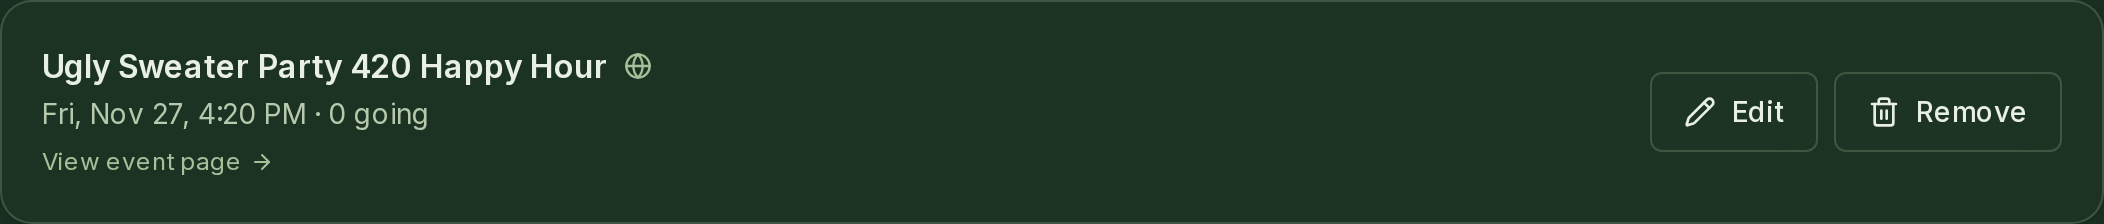
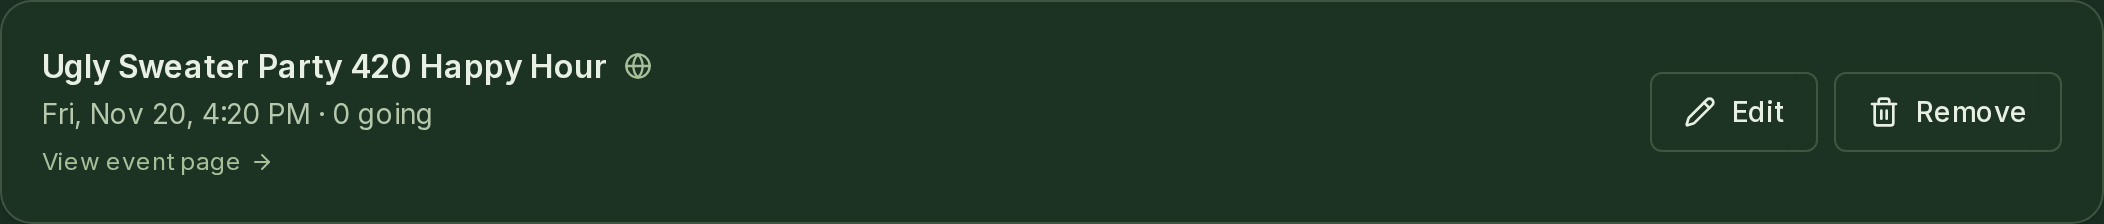
Luma bridge: second review fixes
- A refresh racing the address change can't reopen the Add here form (opened once per draft).
- Disabled members count as already have again: a Luma import must not mail people left out on purpose.
- An explicit empty uris list clears links; an all-refused one keeps them.
- Preview feed keeps tonight's running Happy Hour; shots target the Saturday row; walkthrough paths.

Changed region(s): [[0.0618, 0.4375, 0.2163, 0.5938]]

diff --git a/apps/web/src/app/api/admin/newsletter/import-luma/route.ts b/apps/web/src/app/api/admin/newsletter/import-luma/route.ts
@@ -13,8 +13,8 @@ const MAX_CSV_CHARS = 5_000_000;
  * uploads the export.
  *
  * Skipped: rows Luma marks unsubscribed, guests only invited or declined, invalid emails, repeats in the file,
- * anyone already in the audience (an enabled member, or on the interests list; compileAudience's sources), and
- * anyone who unsubscribed from our newsletter. Without `commit` it's a dry run: the same
+ * anyone already a member (a disabled one too: they were left out of the audience on purpose, and an interests
+ * row would mail them anyway) or on the interests list, and anyone who unsubscribed from our newsletter. Without `commit` it's a dry run: the same
  * counts, nothing written. With it, the counts are worked out again from the lists as they are now, then the
  * new rows are inserted.
  *   → { rows, add, alreadyHave, unsubscribedHere, unsubscribedOnLuma, notRegistered, invalid, duplicate, imported? }
@@ -38,7 +38,7 @@ export async function POST(req: Request) {
       readAll<{ email: string | null }>("interests", (f, t) =>
         admin.from("interests").select("id, email").order("id", { ascending: true }).range(f, t)),
       readAll<{ email: string | null }>("members", (f, t) =>
-        admin.from("members").select("id, email").eq("disabled", false).not("email", "is", null).order("id", { ascending: true }).range(f, t)),
+        admin.from("members").select("id, email").not("email", "is", null).order("id", { ascending: true }).range(f, t)),
       readAll<{ email: string }>("email_unsubscribes", (f, t) =>
         admin.from("email_unsubscribes").select("email").order("email", { ascending: true }).range(f, t)),
     ]);

diff --git a/apps/web/src/components/portal/ManageEvents.tsx b/apps/web/src/components/portal/ManageEvents.tsx
@@ -1,6 +1,6 @@
 "use client";
 
-import { useEffect, useState } from "react";
+import { useEffect, useRef, useState } from "react";
 import { useRouter } from "next/navigation";
 import Link from "next/link";
 import { Button } from "@/components/ui/button";
@@ -101,8 +101,16 @@ export function ManageEvents({
   // After mount, so the times fill in the browser's own zone, as the form reads them. Each "Add here" is a
   // navigation that sends a new draft object, so the same night can be opened again after a Cancel. The address
   // then loses its `?fromLuma=`, so a refresh after posting (or a reload) doesn't open the form again.
+  // A refresh that lands before the replace still carries the same draft: opened once until the address drops it.
+  const openedDraft = useRef<string | null>(null);
   useEffect(() => {
-    if (!draft) return;
+    if (!draft) {
+      openedDraft.current = null;
+      return;
+    }
+    const key = `${draft.url}|${draft.startAt}`;
+    if (openedDraft.current === key) return;
+    openedDraft.current = key;
     setForm(lumaEventToFormValues(draft));
     setError(null);
     setEditing("");

diff --git a/apps/web/src/app/api/admin/newsletter/import-luma/route.test.ts b/apps/web/src/app/api/admin/newsletter/import-luma/route.test.ts
@@ -92,10 +92,11 @@ describe("POST /api/admin/newsletter/import-luma (Luma CSV)", () => {
     expect((await lumaRows()).map((r) => r.email)).toEqual(["taylor@example.test", "kim@example.test", "waitlist@example.test"]);
   });
 
-  it("a disabled member isn't in the audience, so a Luma subscriber who is one is added", async () => {
+  it("a disabled member is left out of the audience on purpose: a Luma import doesn't add them back", async () => {
     await db.sql("insert into members (name, email, disabled) values ('Former', 'former@example.test', true)");
     const csv = "email,subscription_status\nformer@example.test,subscribed\n";
-    expect((await post({ csv, commit: true })).body).toMatchObject({ add: 1, alreadyHave: 0, imported: 1 });
+    expect((await post({ csv, commit: true })).body).toMatchObject({ add: 0, alreadyHave: 1, imported: 0 });
+    expect(await lumaRows()).toEqual([]);
   });
 
   it("a file with no email column, or no file, is refused with a plain reason", async () => {

diff --git a/apps/web/src/lib/seriesRename.test.ts b/apps/web/src/lib/seriesRename.test.ts
@@ -85,5 +85,9 @@ describe("a renamed Happy Hour still counts as that Friday's Happy Hour", () => 
     const edited = putEventBatch(HUB, { rkey: "3maaaaaaaab2a", name: "Renamed", uris: [{ uri: "http://insecure.test" }] },
       { rkey: "3maaaaaaaab2a", value: kept, config: null, hasListing: true }, NOW).input.writes[0] as unknown as { value: CalendarEventBody };
     expect(seriesOf(edited.value)?.slug).toBe("happy-hour");
+    // An explicit empty list clears them.
+    const cleared = putEventBatch(HUB, { rkey: "3maaaaaaaab2a", name: "Renamed", uris: [] },
+      { rkey: "3maaaaaaaab2a", value: kept, config: null, hasListing: true }, NOW).input.writes[0] as unknown as { value: CalendarEventBody };
+    expect((cleared.value as { uris?: unknown }).uris).toEqual([]);
   });
 });

diff --git a/apps/web/src/lib/techne/collectiveEvents.ts b/apps/web/src/lib/techne/collectiveEvents.ts
@@ -84,6 +84,8 @@ function urisOf(raw: unknown): { $type: string; uri: string; name?: string }[] |
     const name = str(u?.name);
     return [{ $type: `${EVENT_NSID}#uri`, uri, ...(name ? { name: name.slice(0, 200) } : {}) }];
   });
+  // `[]` clears the links; a list whose every link is refused changes nothing (the series key isn't wiped).
+  if (raw.length === 0) return [];
   return out.length ? out.slice(0, 10) : undefined;
 }
 

diff --git a/WALKTHROUGH-T482-luma-bridge.md b/WALKTHROUGH-T482-luma-bridge.md
@@ -23,20 +23,20 @@ Hours and the next Agents Building Night from "Add the next nights".
    "Under the calendar, each night shows whether it's also on Luma. Two Happy Hours are; Agents Building Night isn't
    yet. One Saturday workshop is only on Luma." Point at the orange "Not on Luma" and the "Only on Luma" list.
 
-2. **Renaming a night** (`02-renamed-night.png`, `03-next-nights-after-rename.png`)
-   "Next Friday's Happy Hour is renamed Ugly Sweater Party. 'Add the next nights' still knows that Friday is taken.
-   It offers December 4, 11 and 18, not November 27." This was the prod bug: before the fix, a renamed night's date
+2. **Renaming a night** (`walkthrough/luma-bridge/02-renamed-night.png`, `walkthrough/luma-bridge/03-next-nights-after-rename.png`)
+   "A posted Happy Hour is renamed Ugly Sweater Party. 'Add the next nights' still knows that Friday is taken: it
+   offers December 4, 11 and 18, and not the renamed night's date." This was the prod bug: before the fix, a renamed night's date
    was offered again.
 
-3. **Add here** (`04-add-here-prefilled.png`)
+3. **Add here** (`walkthrough/luma-bridge/04-add-here-prefilled.png`)
    "Add here on the Luma-only workshop opens the new-event form with its name, times and place filled in. Create it,
    and the check shows it on both."
 
-4. **Luma CSV into the newsletter** (`05-csv-dry-run.png`)
+4. **Luma CSV into the newsletter** (`walkthrough/luma-bridge/05-csv-dry-run.png`)
    "On Newsletter, Audience: export People from Luma as a CSV and import it. First you see what it would do: 3 new,
    2 we already have, and what's skipped: unsubscribed on Luma, unsubscribed from our newsletter, a bad email, a
    repeat."
 
-5. **Import** (`06-csv-imported.png`)
+5. **Import** (`walkthrough/luma-bridge/06-csv-imported.png`)
    "Import adds the 3 new people to the interests list. They get the newsletter with one-click unsubscribe, like
    everyone else."

diff --git a/CLAUDE.md b/CLAUDE.md
@@ -407,7 +407,7 @@ two independently-switchable things. Both degrade to today's behaviour when unco
 - **Luma without the API** (the API needs Luma Plus): `/admin/newsletter` → Audience → **Import Luma CSV…** takes a
   Luma people export or an event's guests export (`lib/lumaCsv.ts`, `POST /api/admin/newsletter/import-luma`), shows
   new / already have / skipped (unsubscribed on Luma, guests only invited or declined, unsubscribed from our
-  newsletter, invalid, repeats; "already have" = enabled members + interests, the audience's own sources), then
+  newsletter, invalid, repeats; "already have" = any member, disabled ones too, + interests), then
   inserts the new ones into `interests` (`source_path 'luma'`). The old API contact pull is gone.
 - Deliberately NOT changed: the newsletter still reads Luma directly (`lib/newsletter.ts:142`). Its
   copy is Luma-branded end to end; switching it is a product decision, not a plumbing one.

diff --git a/.claude/skills/newsletter/SKILL.md b/.claude/skills/newsletter/SKILL.md
@@ -17,7 +17,7 @@ Cadence: every other week (open to weekly later). One issue per run.
 memory. Luma's API needs Luma Plus, which we don't pay for; its public iCal feed needs no key:
 
 ```bash
-curl -s "https://api.lu.ma/ics/get?entity=calendar&id=cal-ZCWMKx1NMCXGd7v" > "$TMPDIR/regenhub-luma.ics"
+curl -s "https://api.lu.ma/ics/get?entity=calendar&id=cal-ZCWMKx1NMCXGd7v" > "${TMPDIR:-/tmp}/regenhub-luma.ics"
 # VEVENTs: DTSTART (UTC), SUMMARY, and the page in DESCRIPTION ("Get up-to-date information at: https://luma.com/…")
 ```
 
